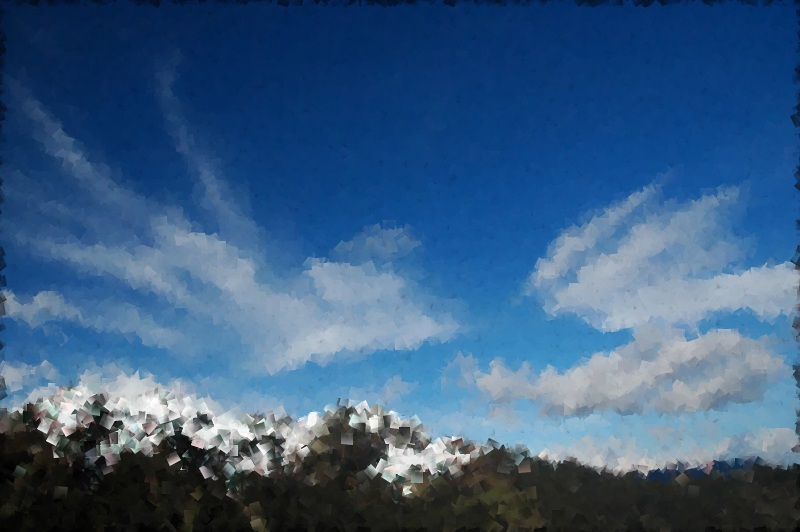
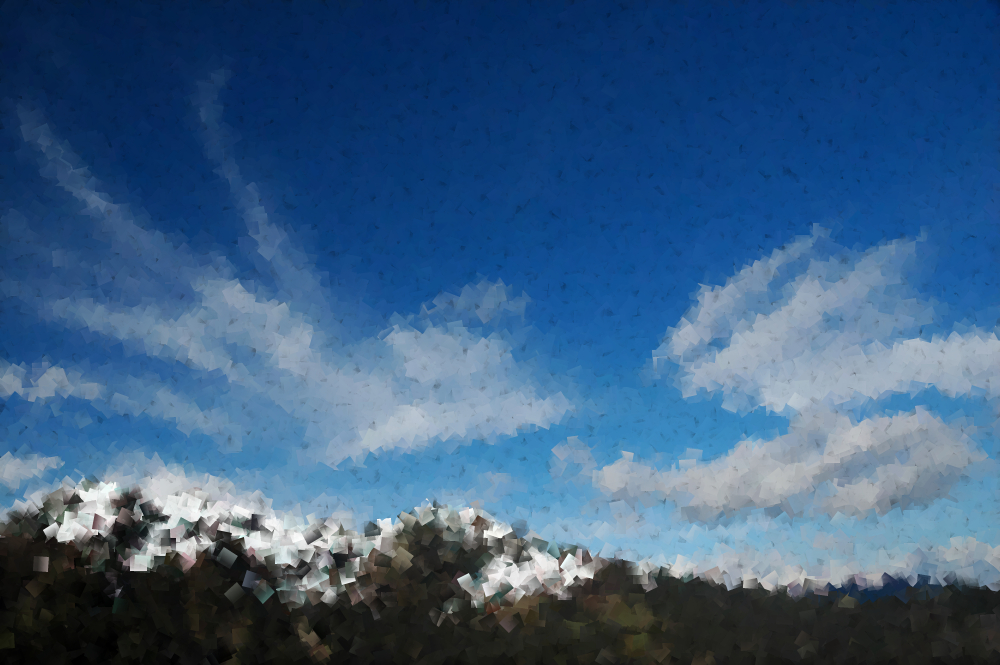
Added parallax. Fixed some collisions in some rooms.

diff --git a/class/controladores/principal.cpp b/class/controladores/principal.cpp
@@ -27,7 +27,8 @@ Controlador_principal::Controlador_principal(DLibH::Log_base& log, const Fuentes
 	localizador(l),
 	sistema_audio(sa),
 	modo(modos::juego),
-	camara(0, 0, 800, 500), juego_finalizado(false)
+	camara(0, 0, 800, 500), 
+	fondo(DLibV::Gestor_texturas::obtener(r_graficos::g_fondo_defecto))
 {
 	layout_mensaje.mapear_fuente("akashi", fuente);
 	layout_mensaje.parsear("data/layout/layout_mensaje.dnot", "layout");
@@ -86,6 +87,7 @@ void Controlador_principal::loop(DFramework::Input& input, float delta)
 			{
 				procesar_jugador(input, delta, jugador);
 				ajustar_camara(delta);
+				ajustar_parallax();
 			}
 			//Se usa el avisador para saber cuando empezar otra vez.
 			else if(!tiempo.es_aviso())
@@ -131,7 +133,7 @@ void Controlador_principal::loop(DFramework::Input& input, float delta)
 			{
 				solicitar_cambio_estado(intro);
 				modo=modos::juego;
-				juego_finalizado=true;
+				info_juego.juego_finalizado=true;
 				return;
 			}
 		break;
@@ -147,20 +149,12 @@ void Controlador_principal::dibujar(DLibV::Pantalla& pantalla)
 {
 	pantalla.limpiar(0, 0, 0, 255);
 
-	int id_recurso=100+(mapa.acc_id_fondo()-1);
-	if(id_recurso < 100)
-	{
-		id_recurso=100;
-		log<<"Warning: id_recurso < 100 "<<id_recurso<<" en mapa "<<info_mapa.id_mapa<<std::endl;
-	}
-
 	if(info_juego.debug_activo)
 	{
 		dibujar_debug(pantalla);
 	}
 	else
 	{
-		DLibV::Representacion_bitmap fondo(DLibV::Gestor_texturas::obtener(id_recurso));
 		fondo.volcar(pantalla);
 
 		Representador& r=representador;
@@ -249,6 +243,19 @@ Bloque_input Controlador_principal::obtener_bloque_input(DFramework::Input& inpu
 	else if(input.es_input_pulsado(Input::derecha)) res.giro=-1;
 
 	return res;
+}
+
+void Controlador_principal::ajustar_parallax()
+{
+	//TODO: ¿Qué ocurre cuando el nivel es del mismo tamaño?. Hay que centrarlo.
+
+	//Necesitamos los ratios desde el mínimo al máximo.
+	auto cam=mapa.acc_info_camara();
+
+	int x_parallax=(camara.acc_x() * info_parallax.max_fondo_x) /cam.max_cam_x;
+	int y_parallax=(camara.acc_y() * info_parallax.max_fondo_y) /cam.max_cam_y;
+
+	fondo.establecer_recorte(x_parallax, y_parallax, 800, 500);
 }
 
 void Controlador_principal::ajustar_camara(float delta)
@@ -360,7 +367,7 @@ void Controlador_principal::procesar_jugador(DFramework::Input& input, float del
 			r_sonidos::s_viento, 127, 127));
 	}
 
-	for(const auto& s : mapa.salidas)
+	for(auto& s : mapa.salidas)
 	{
 		if(j.en_colision_con(s))
 		{
@@ -468,7 +475,9 @@ void Controlador_principal::procesar_ayudas(float delta)
 	for(auto& i : mapa.ayudas) i.turno(delta);
 }
 
-void Controlador_principal::jugador_en_salida(const Salida& s, Jugador&)
+//La salida no es una referencia: para cuando carguemos el nivel el objeto
+//original habrá desaparecido!.
+void Controlador_principal::jugador_en_salida(Salida s, Jugador&)
 {
 	cargar_nivel(s.acc_id_mapa());
 	iniciar_nivel(s.acc_id_inicio());
@@ -562,7 +571,7 @@ void Controlador_principal::jugador_en_interruptor(Interruptor& i, Jugador& j)
 
 		if(!mapa.existe_puerta(s.id_puerta))
 		{
-			log<<"Warning: no existe la puerta "<<s.id_puerta<<std::endl;
+//			log<<"Warning: no existe la puerta "<<s.id_puerta<<std::endl;
 		}
 		else
 		{
@@ -605,7 +614,22 @@ void Controlador_principal::cargar_nivel(int nivel)
 
 	for(auto id_p : info_persistente.puertas_abiertas) mapa.abrir_puerta(id_p);
 	for(auto id_p : info_persistente.piezas_recogidas) mapa.recoger_pieza(id_p);
-	mapa.actualizar_arbol(info_persistente.piezas_recogidas, jugador.acc_pieza_actual());	
+	mapa.actualizar_arbol(info_persistente.piezas_recogidas, jugador.acc_pieza_actual());
+
+	//Trabajar el fondo...
+	int id_recurso=100+(mapa.acc_id_fondo()-1);
+	if(id_recurso < 100)
+	{
+		id_recurso=100;
+		log<<"Warning: id_recurso < 100 "<<id_recurso<<" en mapa "<<info_mapa.id_mapa<<std::endl;
+	}
+
+	fondo.establecer_textura(DLibV::Gestor_texturas::obtener(id_recurso));
+	fondo.establecer_recorte(0, 0, 800, 500);
+	fondo.establecer_posicion(0, 0, 800, 500);
+
+	info_parallax.max_fondo_x=fondo.acc_w_textura()-camara.acc_pos_w();
+	info_parallax.max_fondo_y=fondo.acc_h_textura()-camara.acc_pos_h();
 }
 
 void Controlador_principal::iniciar_nivel(int id_inicio)
@@ -622,7 +646,6 @@ void Controlador_principal::iniciar_nivel(int id_inicio)
 	}
 
 	info_mapa.inicio_actual=*it;
-
 	jugador.establecer_inicio(info_mapa.inicio_actual.acc_punto());
 
 	//Preparar info interruptores...
@@ -633,12 +656,12 @@ void Controlador_principal::iniciar_nivel(int id_inicio)
 		if(!info_interruptores.count(id_grupo))
 		{
 			info_interruptores[id_grupo]=info_interruptor(1, 0, i.acc_id_puerta());
-			log<<"Nuevo grupo de puertas "<<id_grupo<<std::endl;
+//			log<<"Nuevo grupo de puertas "<<id_grupo<<std::endl;
 		}
 		else
 		{
 			++info_interruptores[id_grupo].total;
-			log<<"Grupo de puertas "<<id_grupo<<":"<<info_interruptores[id_grupo].total<<std::endl;
+//			log<<"Grupo de puertas "<<id_grupo<<":"<<info_interruptores[id_grupo].total<<std::endl;
 		}
 	}
 

diff --git a/class/controladores/principal.h b/class/controladores/principal.h
@@ -69,7 +69,7 @@ class Controlador_principal:
 	void				iniciar_juego();
 	void				iniciar_nivel(int);
 	void				cargar_nivel(int);
-	bool				es_juego_finalizado() const {return juego_finalizado;}
+	bool				es_juego_finalizado() const {return info_juego.juego_finalizado;}
 	void				establecer_ayuda(bool v) {info_juego.ayuda_activa=v;}
 	void				establecer_debug(bool v) {info_juego.debug_activo=v;}
 	void				establecer_editor(bool v) {info_juego.editor_activo=v;}
@@ -77,6 +77,7 @@ class Controlador_principal:
 	private:
 
 	void					ajustar_camara(float delta);
+	void					ajustar_parallax();
 
 	void					procesar_jugador(DFramework::Input&, float, Jugador&);
 	void					procesar_interruptores(float);
@@ -87,7 +88,7 @@ class Controlador_principal:
 
 	Bloque_input				obtener_bloque_input(DFramework::Input& input) const;
 
-	void					jugador_en_salida(const Salida&, Jugador&); 
+	void					jugador_en_salida(Salida, Jugador&); 
 	void					jugador_en_interruptor(Interruptor&, Jugador&);
 	void					jugador_en_pieza(const Pieza&, Jugador&);
 	void					jugador_en_arbol(Arbol&, Jugador&);
@@ -116,12 +117,16 @@ class Controlador_principal:
 	enum class				modos{juego, ayuda, confirmar_salida, animacion_choque, florecimiento, recuento_final} modo;
 
 	DLibV::Camara				camara;
+	DLibV::Representacion_bitmap		fondo;
+	struct {
+		int				max_fondo_x=0,
+						max_fondo_y=0;
+	}info_parallax;
 	Mapa					mapa;
 	Jugador					jugador;
 	std::vector<std::unique_ptr<Particula>>	particulas;
 	Tiempo					tiempo;
 	Herramientas_proyecto::Compositor_vista		layout_mensaje;
-	bool					juego_finalizado;
 
 	struct
 	{
@@ -193,8 +198,9 @@ class Controlador_principal:
 	struct
 	{
 		bool				ayuda_activa=true,
-						debug_activo=true,
-						editor_activo=false;
+						debug_activo=false,
+						editor_activo=false,
+						juego_finalizado=false;
 	}info_juego;
 };
 

diff --git a/class/app/recursos.h b/class/app/recursos.h
@@ -10,7 +10,8 @@ enum r_graficos {
 	g_viento=3,
 	g_hud=4,
 	g_cover=5,
-	g_flores=6
+	g_flores=6,
+	g_fondo_defecto=100
 };
 
 enum r_sonidos{
